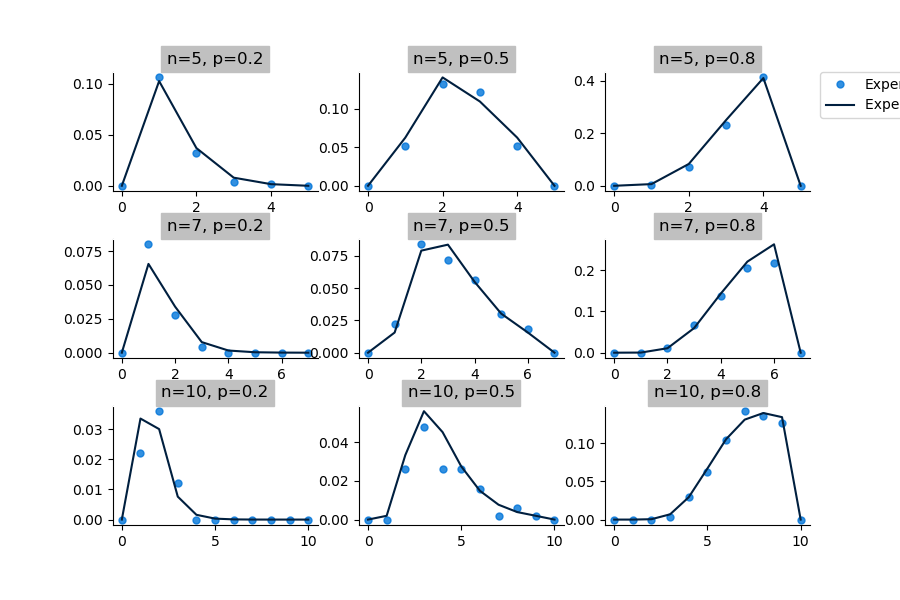
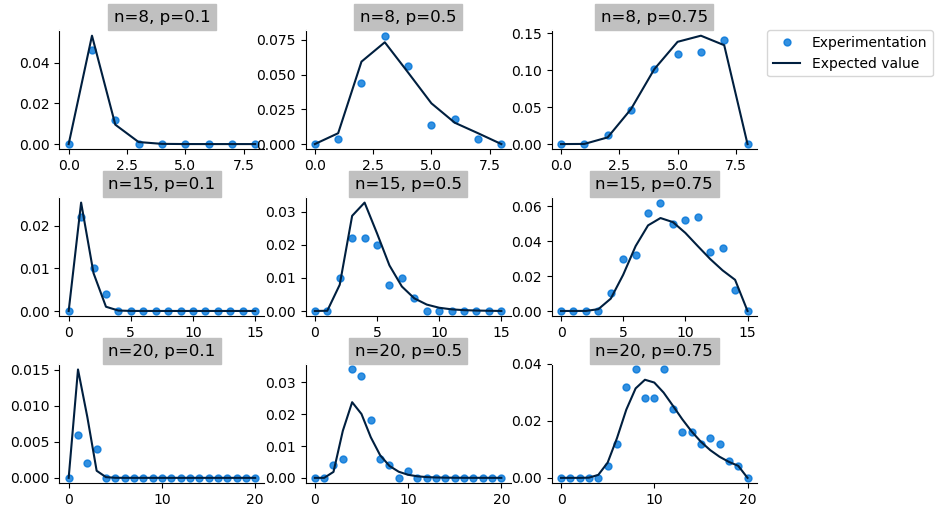
Images update

diff --git a/Python/_rigidity_experiments.py b/Python/_rigidity_experiments.py
@@ -233,16 +233,16 @@ def set_of_experiments(N,P,event):
     print("GOF", goodness_of_fit)
     
     if event == 1:
-        plt.savefig('Figures/Uniquely-determinated-fixed-vertex.png')
+        plt.savefig('Figures/Uniquely-determinated-fixed-vertex.png', bbox_inches="tight")
         write_table("Uniquely-determinated-fixed-vertex-table-errors",caption_goodness_of_fit,"gofExp1",N,P,goodness_of_fit)
         plt.show()
     elif event == 2:
-        plt.savefig('Figures/Uniquely-determinated-any-vertex.png')
+        plt.savefig('Figures/Uniquely-determinated-any-vertex.png', bbox_inches="tight")
         write_table("Uniquely-det-any-table-errors",caption_goodness_of_fit,"gofExp2",N,P,goodness_of_fit)
         plt.show()
 
     else:
-        plt.savefig('Figures/Expansion-probability.png')
+        plt.savefig('Figures/Expansion-probability.png', bbox_inches="tight")
         write_table("Expansion-probability-table-errors",caption_goodness_of_fit,"gofExp3",N,P,goodness_of_fit)
         plt.show()
 
@@ -287,11 +287,11 @@ def individual_experiments(n,p,event):
                  borderaxespad=0.)
             
     if event == 1:
-        plt.savefig('Figures/Single-uniquely-determinated-fixed-vertex.png')
+        plt.savefig('Figures/Single-uniquely-determinated-fixed-vertex.png', bbox_inches="tight")
     elif event == 2:
-        plt.savefig('Figures/Single-uniquely-determinated-any-vertex.png')
+        plt.savefig('Figures/Single-uniquely-determinated-any-vertex.png', bbox_inches="tight")
     else:
-        plt.savefig('Figures/Single-expansion-probability.png')
+        plt.savefig('Figures/Single-expansion-probability.png', bbox_inches="tight")
         
     plt.show()
 
@@ -317,7 +317,7 @@ if __name__ == "__main__":
     #individual_experiments(15,0.5,event=3)
 
     #------------------------------------------------------------------------
-    N,P=[5,7,10],[0.2,0.5,0.8]
+    N,P=[8,15,20],[0.1,0.5,0.75]
     print("EMPIRICAL VS ESTIMATED PROBABILITIES. N="+ str(n)+ " , P=" + str(p))
     print("Event 1. Prob. of a fixed vertex being uniquely det.")
     print(set_of_experiments(N,P,1))
